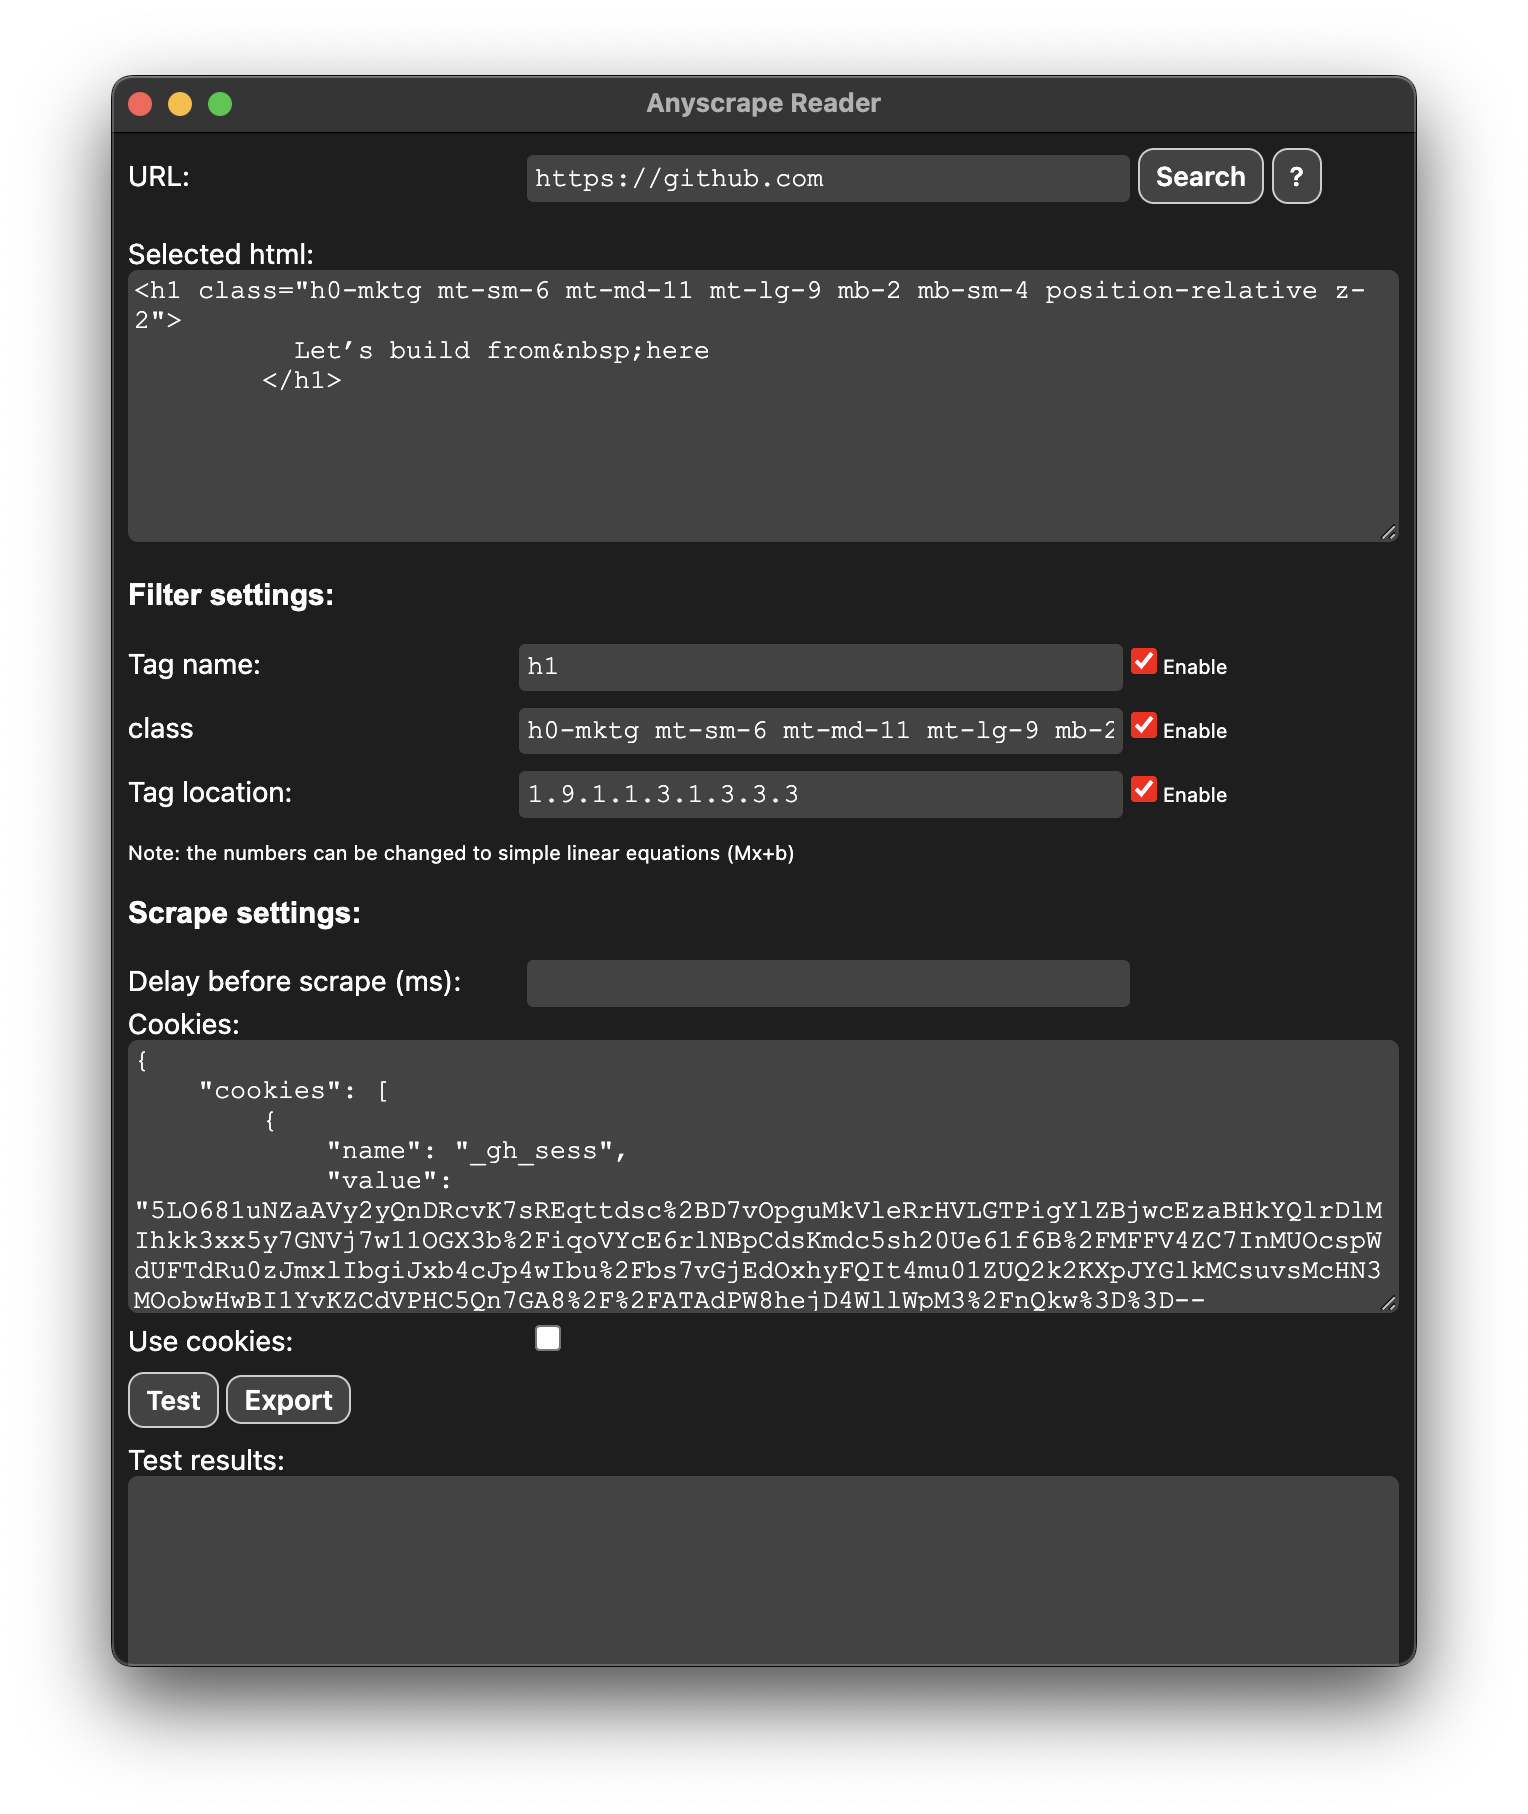
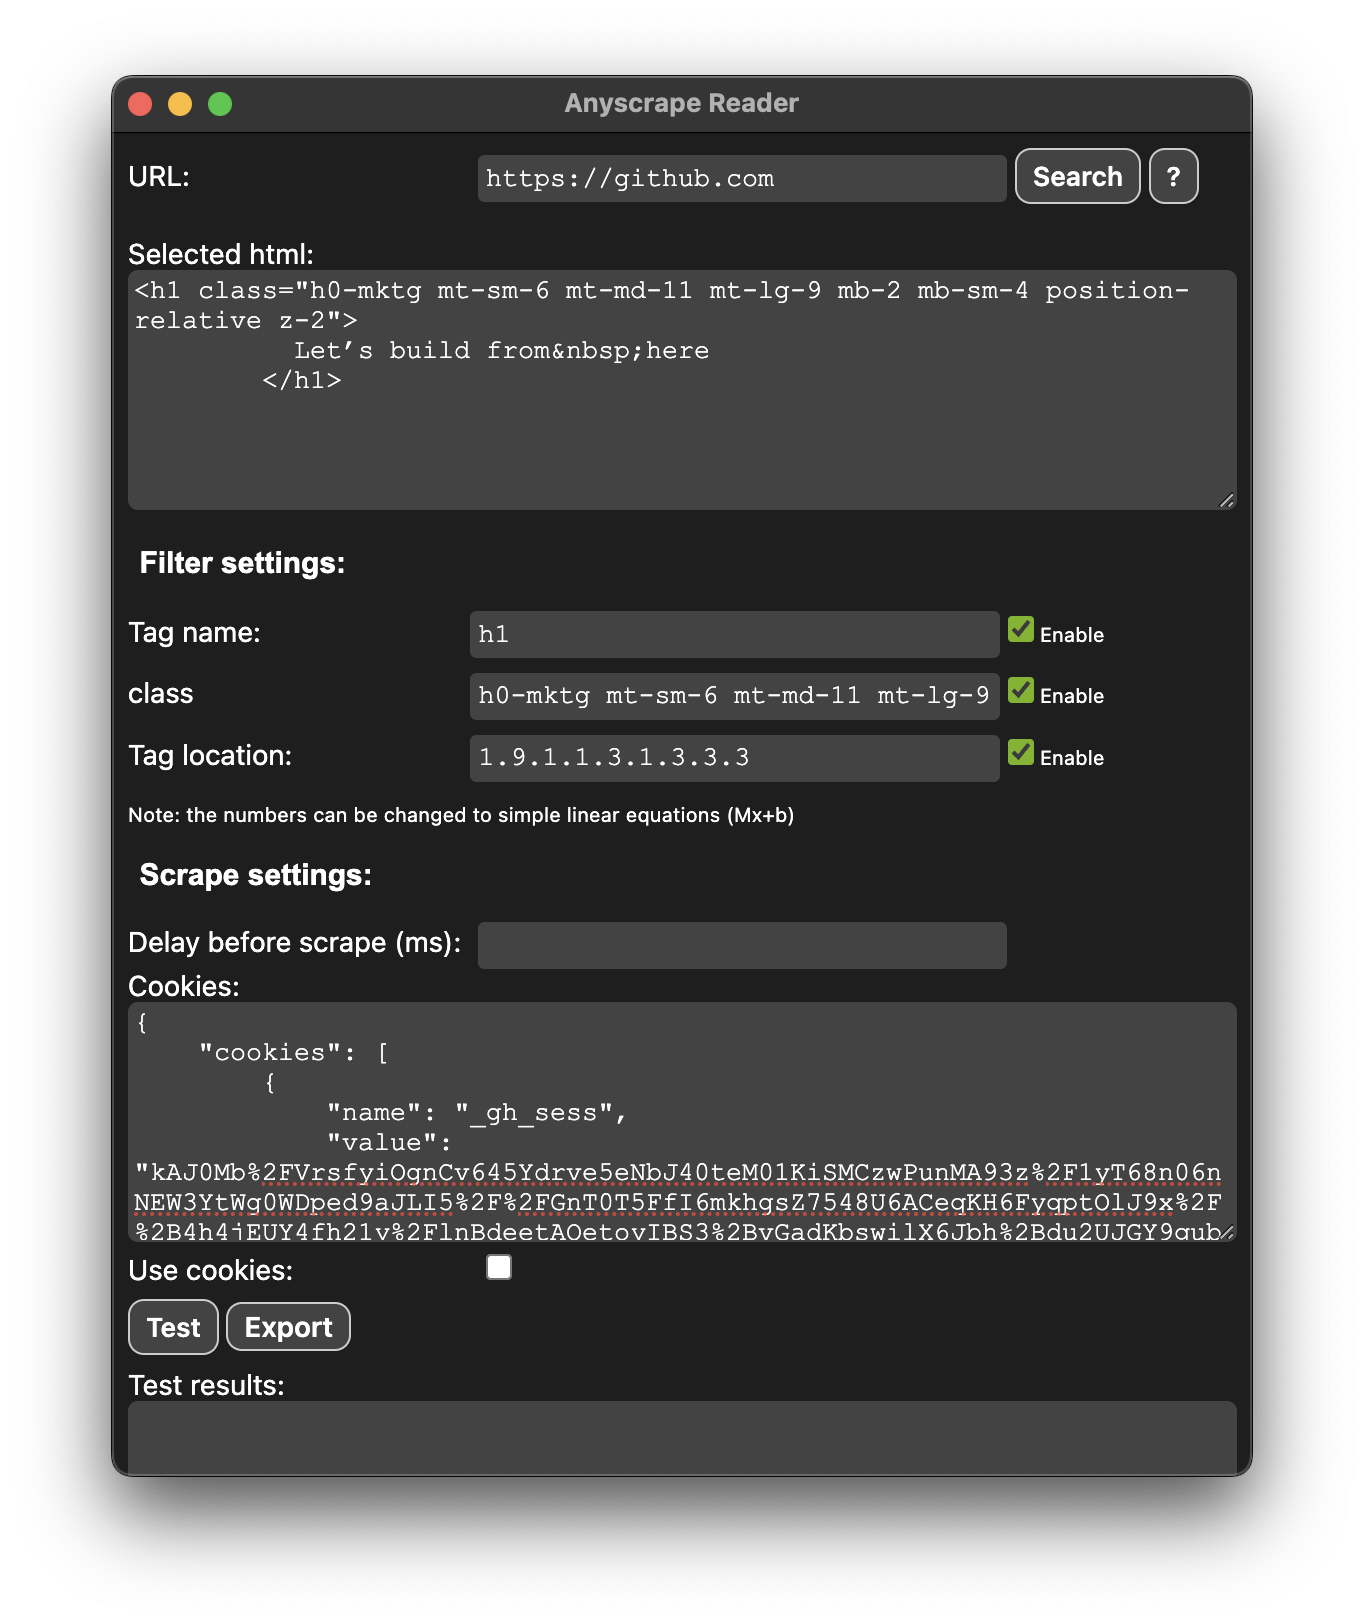
Minor updates in UI

Changed region(s): [[0.0616, 0.0308, 0.9545, 0.9544]]

diff --git a/reader/css/styles.css b/reader/css/styles.css
@@ -4,11 +4,13 @@
     --widget_hover_color: rgb(100, 100, 100);
     --widget_disabled_color: rgb(195, 195, 195);
     --foreground_color: white;
-    --accent-color: rgb(255, 0, 0);
+    --accent-color: rgb(237, 255, 135);
+    --accent-color-dark: rgb(118, 181, 0);
     --button_border_color: rgb(204, 204, 204);
     --text_border_color: rgb(146, 146, 146);
 
     --title-font: Arial, Helvetica, sans-serif;
+    --title-background: linear-gradient(to left, #e0ffd1, #d2f7fc);
     --paragraph-font: 'Verdana';
     --standard_font: system-ui;
     --monospace_font: 'Courier New', Courier, monospace;
@@ -28,6 +30,10 @@ h1 {
     font-size: min(40px, max(4vw, 30px));
     font-family: var(--title-font);
     text-align: center;
+    background-image: var(--title-background);
+    color: transparent;
+    background-clip: text;
+    -webkit-background-clip: text;
 }
 h2 {
     font-size: min(30px, max(3vw, 20px));
@@ -77,6 +83,12 @@ textarea {
     text-decoration: none;
 }
 
+textarea:focus {
+    border: none;
+    border: 1px dashed var(--accent-color);
+    outline: none;
+}
+
 div[class="separator"] {
     display: block;
     height: 1vh;
@@ -92,9 +104,15 @@ input[type="text"] {
     width: 45vw;
 }
 
+input[type=text]:focus
+{
+    border-bottom: 1px dashed var(--accent-color);
+    outline: none;
+}
+
 input[type="checkbox"] {
     display: inline-block;
-    accent-color: var(--accent-color);
+    accent-color: var(--accent-color-dark);
     border: 1px solid var(--button_border_color);
 }
 
